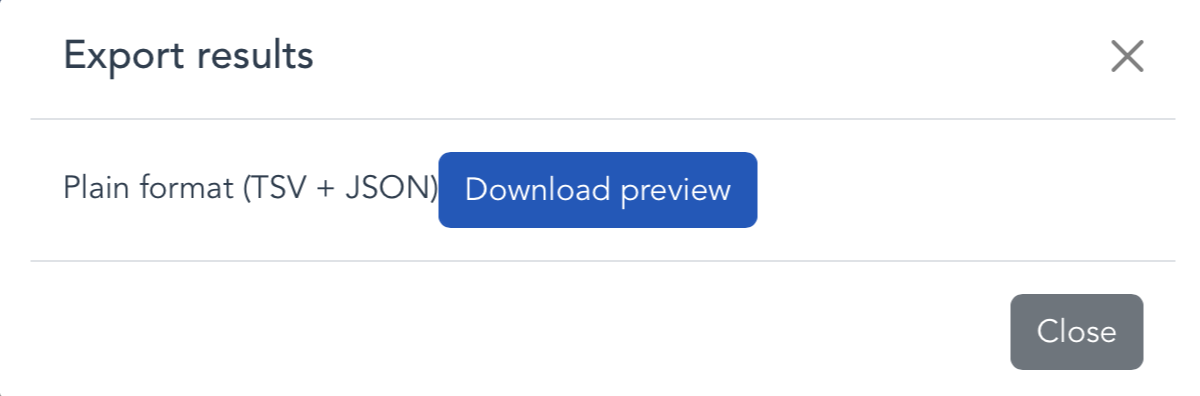
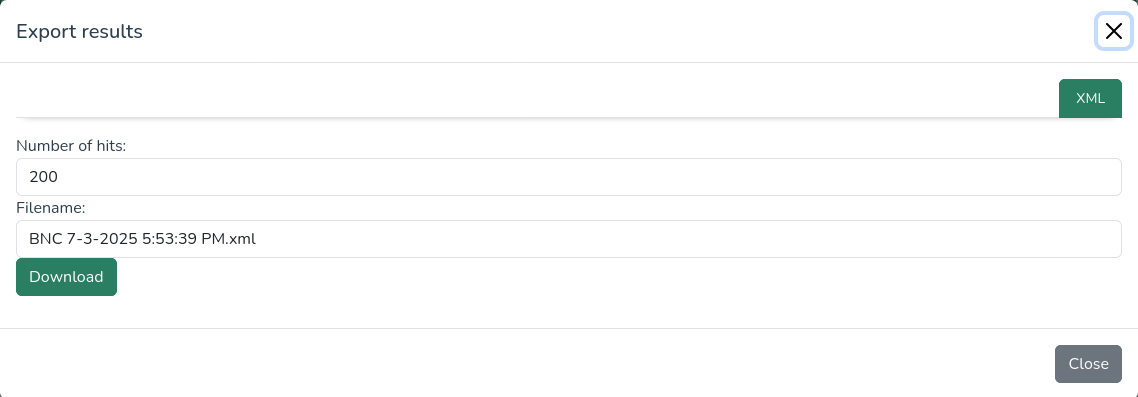
Update the exporting page of the manual

diff --git a/manual/exporting.md b/manual/exporting.md
@@ -1,16 +1,64 @@
 # Exporting
 
+## LCP Interface
+
 Query results can be saved locally using the Export function.
 
-<p align="center"> <!-- Doesnt work, I wanted to center it, but it's not that important -->
+<p>
   <img src="images/lcp_export.png" alt="alt" width="550"/>
 </p>
 
-Clicking the Export button prompts a dialog window with the option to download the results. Depending on the settings in the query, the output may contain several parts, including the sentences and the quantitative analyses.
+Clicking the "Export" button prompts a dialog window with the option to download the results.
 
-<p align="center"> <!-- Doesnt work, I wanted to center it, but it's not that important -->
+<p>
   <img src="images/lcp_export_download.png" alt="alt" width="550"/>
 </p>
 
-Note that only the results included in the current batches will be saved. In order to save all results, query all the batches.
+Clicking the "Download" button will initiate the export process. Hover the download icon in the top bar to get the file once it is ready.
 
+<p>
+  <img src="images/lcp_export_notif.png" alt="alt" width="550"/>
+</p>
+
+## Results file
+
+As of July 2025, LCP exports results to XML files with the following structure:
+
+```xml
+<results>
+  <corpus></corpus>
+  <query></query>
+  <stats></stats>
+  <plain></plain>
+</results>
+```
+
+ - The `corpus` node (always present) contains metadata about the corpus, such as its name, its authors, etc.
+ - The `query` node (always present) contains information about the query: when it was processed, the requested number of hits, etc. The `json` sub-node contains the json translation of the query.
+ - `stats` will be present if the query includes at least one `analysis` or `collocation` set of results. Each set will live under a dedicated node whose `name` attribute is defined in the query.
+ - `plain` will be present if the query includes at least one `plain` set of results. Its children nodes are structured as such:
+   - each node whose tag starts with an **upper-case** character corresponds to an **entity** from the corpus (e.g. `Document` or `Token`); simple attributes of the entity (i.e. which do not contain sub-attributes) are reported as direct attributes of the node
+   - the context-level nodes (e.g. `Segment`) contain a node **`hits`** that references the **IDs of the matching entities**. The `hits` node contains one `hit` node per `plain` set, named as defined in the query.
+   - any other node whose tag starts with a **lower-case character** (e.g. `misc`) is an **attribute** of the parent entity which contains **sub-attributes**.
+   - **only entities that contain a match** are included in the file
+   - the nodes are nested according to the structure of the corpus, and ordered along their `char_range` value (i.e. their character anchor)
+
+### Example of a `plain` sample
+
+```xml
+<Interview id="307" char_range="[3968023,3981532)" frame_range="[6603764,6620348)">
+  <meta end="664.33" name="unine15a61m" start="0.0" filename="unine15a61m.tei"/>
+  <media audio="unine15a61m.mp3"/>
+  <Utterance id="498dbec7-8ea0-4f21-bce6-dce2655a2e35" char_range="[3970952,3970958)" frame_range="[6607272,6607290)">
+    <meta end="141.04" text="et euh" start="140.32" sent_id="a3155" speaker="SPK1"/>
+    <agent id="unine15-043" nom="NR" pays="Suisse" role="Témoin" sexe="F" metier="Étudiante" prenom="NR" region="Berne" langage="Français L1" departement="Berne" nature_lien="NR" habite_depuis="1995" annee_naissance="1995" degre_proximite="NR" domicile_actuel="Saint-Imier" statut_familial="Célibataire" domicile_jeunesse="Saint-Imier" niveau_socioeducatif="Formation supérieure"/>
+    <hits>
+      <hit name="results">
+        <sequence name="seq" refers_to="[819772, 819773]" />
+      </hit>
+    </hits>
+    <Token id="819772" lemma="et" xpos="CON">et<misc key="MINg" conjunction="CON"/></Token>
+    <Token id="819773" lemma="euh" xpos="ITJ">euh<misc key="MAJ" filler="FIL"/></Token>
+  </Utterance>
+</Interview>
+```
